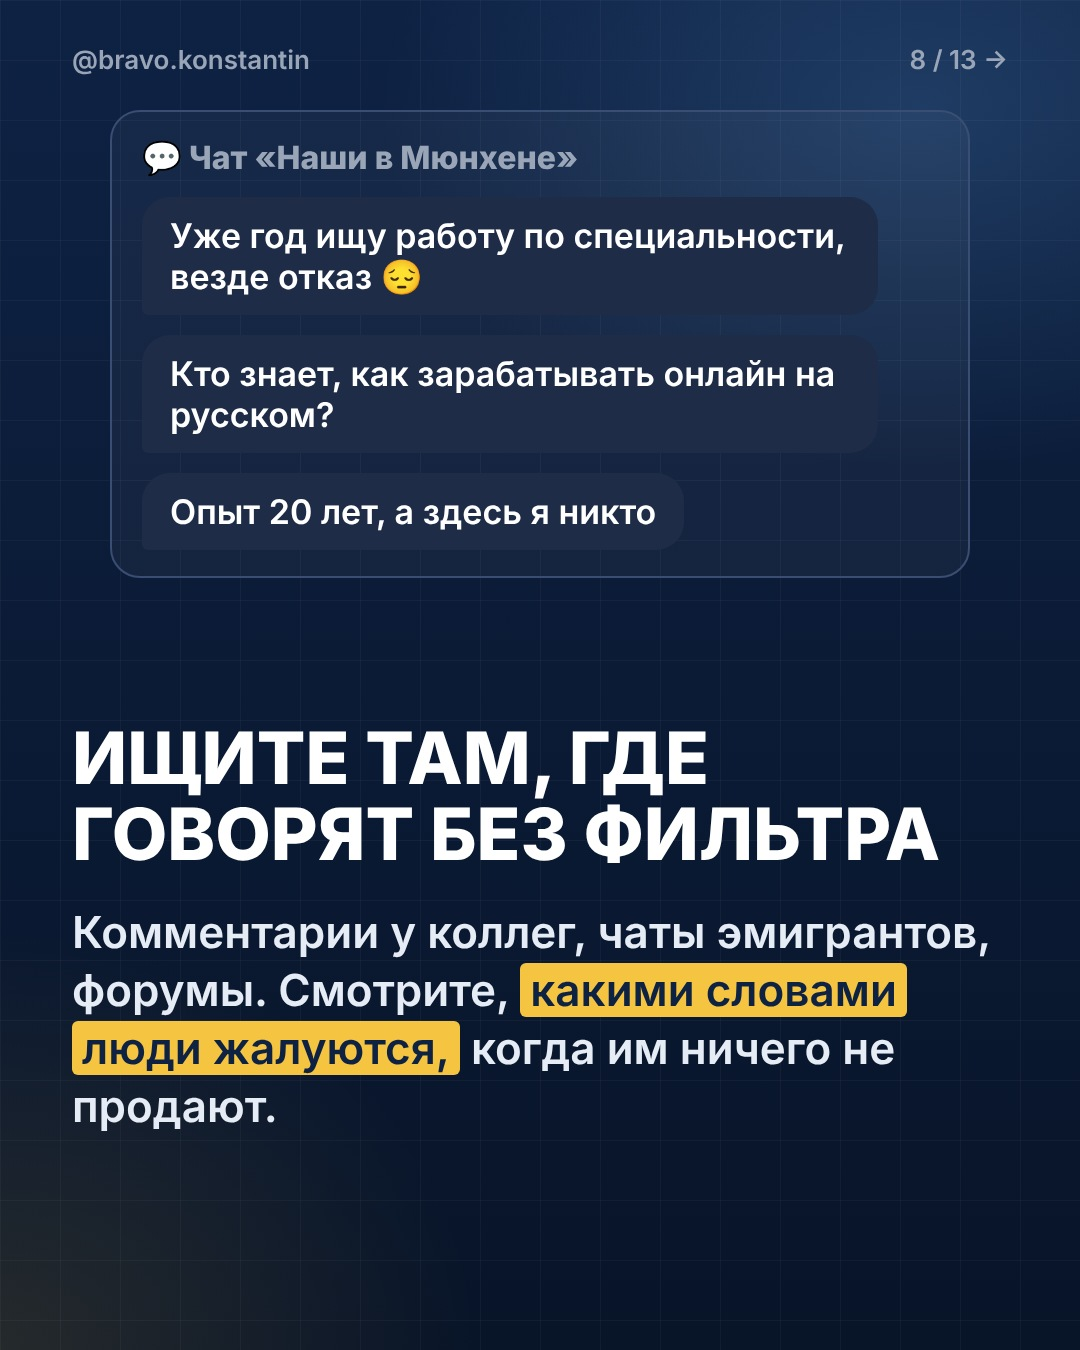
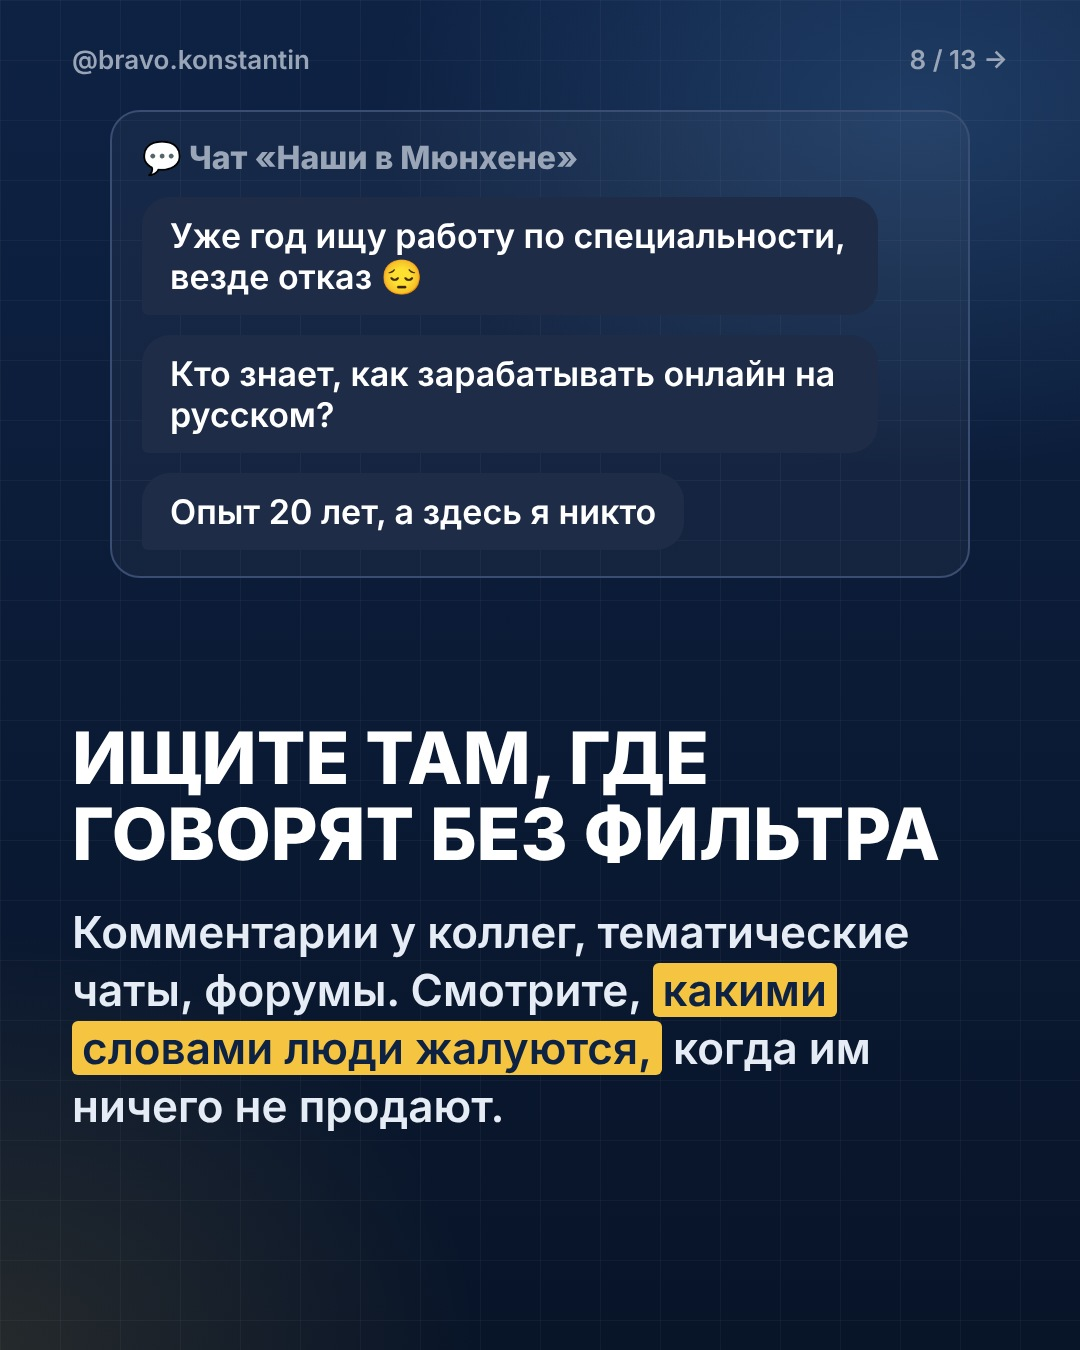
Пирожки: слайд 8 без «эмигрантов»
Claude-Session: https://claude.ai/code/session_01Q63LAQASQZAPGiGBoPTq7m

Changed region(s): [[0.0611, 0.6844, 0.9167, 0.84]]

diff --git a/tools/make_pirozhki_opyt.py b/tools/make_pirozhki_opyt.py
@@ -62,7 +62,7 @@ sl[7] = txt(7, 'И опросы тут не спасут', 'Люди из веж
 ill = f'''<div style="position:absolute;top:110px;left:110px;right:110px;border-radius:30px;background:rgba(255,255,255,.04);border:2px solid #3A4E73;padding:26px 30px">
 <div style="font-weight:800;font-size:32px;color:{GR}">💬 Чат «Наши в Мюнхене»</div>
 {bubble("Уже год ищу работу по специальности, везде отказ 😔")}{bubble("Кто знает, как зарабатывать онлайн на русском?")}{bubble("Опыт 20 лет, а здесь я никто")}</div>'''
-sl[8] = txt(8, 'Ищите там, где говорят без фильтра', 'Комментарии у коллег, чаты эмигрантов, форумы. Смотрите, <span class="y">какими словами люди жалуются,</span> когда им ничего не продают.', ill, top=720)
+sl[8] = txt(8, 'Ищите там, где говорят без фильтра', 'Комментарии у коллег, тематические чаты, форумы. Смотрите, <span class="y">какими словами люди жалуются,</span> когда им ничего не продают.', ill, top=720)
 
 ill = f'''<div style="position:absolute;top:130px;left:120px;right:120px">
 {bubble("Вот 30 фраз из чатов. Какие боли повторяются чаще всего?", me=True)}
